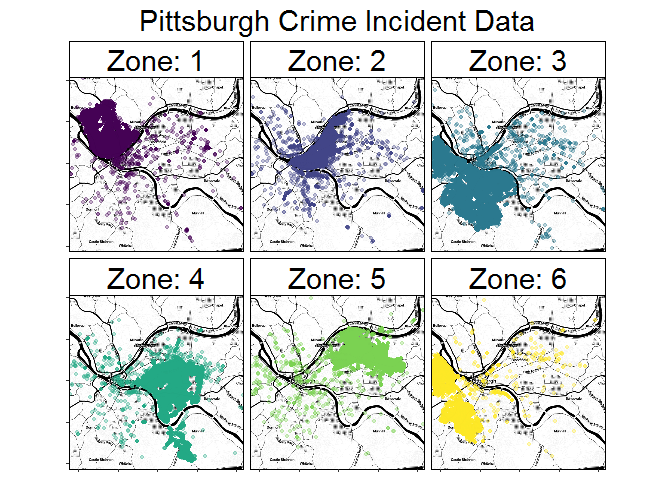
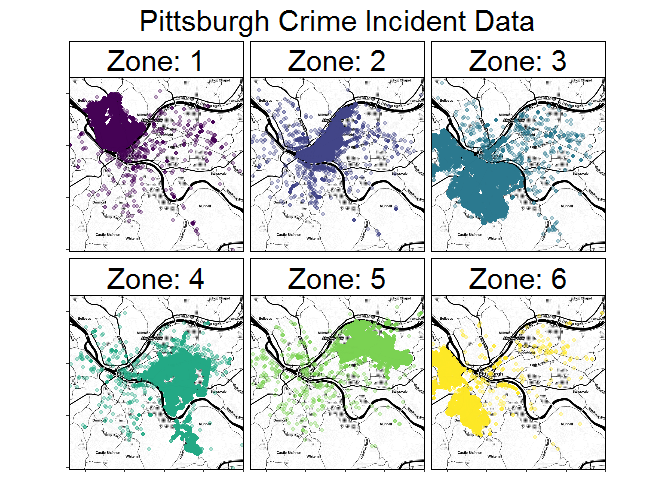
changed formatting, added conclusion for Zone 6 problem

Changed region(s): [[0.0938, 0.1562, 0.9062, 0.5312], [0.0938, 0.5938, 0.9062, 1.0], [0.5938, 0.5, 0.625, 0.5312]]

diff --git a/Data_Problem_Analysis.md b/Data_Problem_Analysis.md
@@ -52,7 +52,7 @@ city_map_11 +
         axis.text = element_blank())
 ```
 
-    ## Warning: Removed 22716 rows containing missing values (geom_point).
+    ## Warning: Removed 22717 rows containing missing values (geom_point).
 
 ![](Data_Problem_Analysis_files/figure-markdown_github/create%20zone%20map-1.png)
 
@@ -64,6 +64,8 @@ paste0(round(22716 / nrow(df_map_zones), 2) * 100, "%")
 
     ## [1] "5%"
 
+Faceting the data by Zone to separate it, the data looks less accurate
+
 ``` r
 city_map_12 <-  get_map(location = "Oakland, Pittsburgh, PA",
                zoom = 12,
@@ -73,8 +75,6 @@ city_map_12 <-  get_map(location = "Oakland, Pittsburgh, PA",
 
 city_map_12 <- ggmap(city_map_12)
 ```
-
-Faceting the data by Zone to separate it, the data looks less accurate
 
 ``` r
 city_map_12 +
@@ -91,7 +91,7 @@ city_map_12 +
         axis.text = element_blank())
 ```
 
-    ## Warning: Removed 29005 rows containing missing values (geom_point).
+    ## Warning: Removed 25521 rows containing missing values (geom_point).
 
 ![](Data_Problem_Analysis_files/figure-markdown_github/faceted%20zone%20map-1.png)
 
@@ -134,7 +134,7 @@ city_map_12 +
         axis.text = element_blank())
 ```
 
-    ## Warning: Removed 5032 rows containing missing values (geom_point).
+    ## Warning: Removed 4846 rows containing missing values (geom_point).
 
 ![](Data_Problem_Analysis_files/figure-markdown_github/nbh%20map-1.png)
 
@@ -155,7 +155,7 @@ city_map_12 +
         strip.text = element_text(size = 6))
 ```
 
-    ## Warning: Removed 5032 rows containing missing values (geom_point).
+    ## Warning: Removed 4846 rows containing missing values (geom_point).
 
 ![](Data_Problem_Analysis_files/figure-markdown_github/nbh%20facet%20map-1.png)
 
@@ -490,3 +490,5 @@ ggmap(z6_map) +
 This broadly lines up with the borders of Zone 6
 
 Incidents reported in Zone 6 before Zone 6 was reopened in 2008 appear to be geolocated appropriately
+
+I think there should be a special flag for these incidents. LOgging incidents in a Zone that did not exist at the time does not really make sense.
